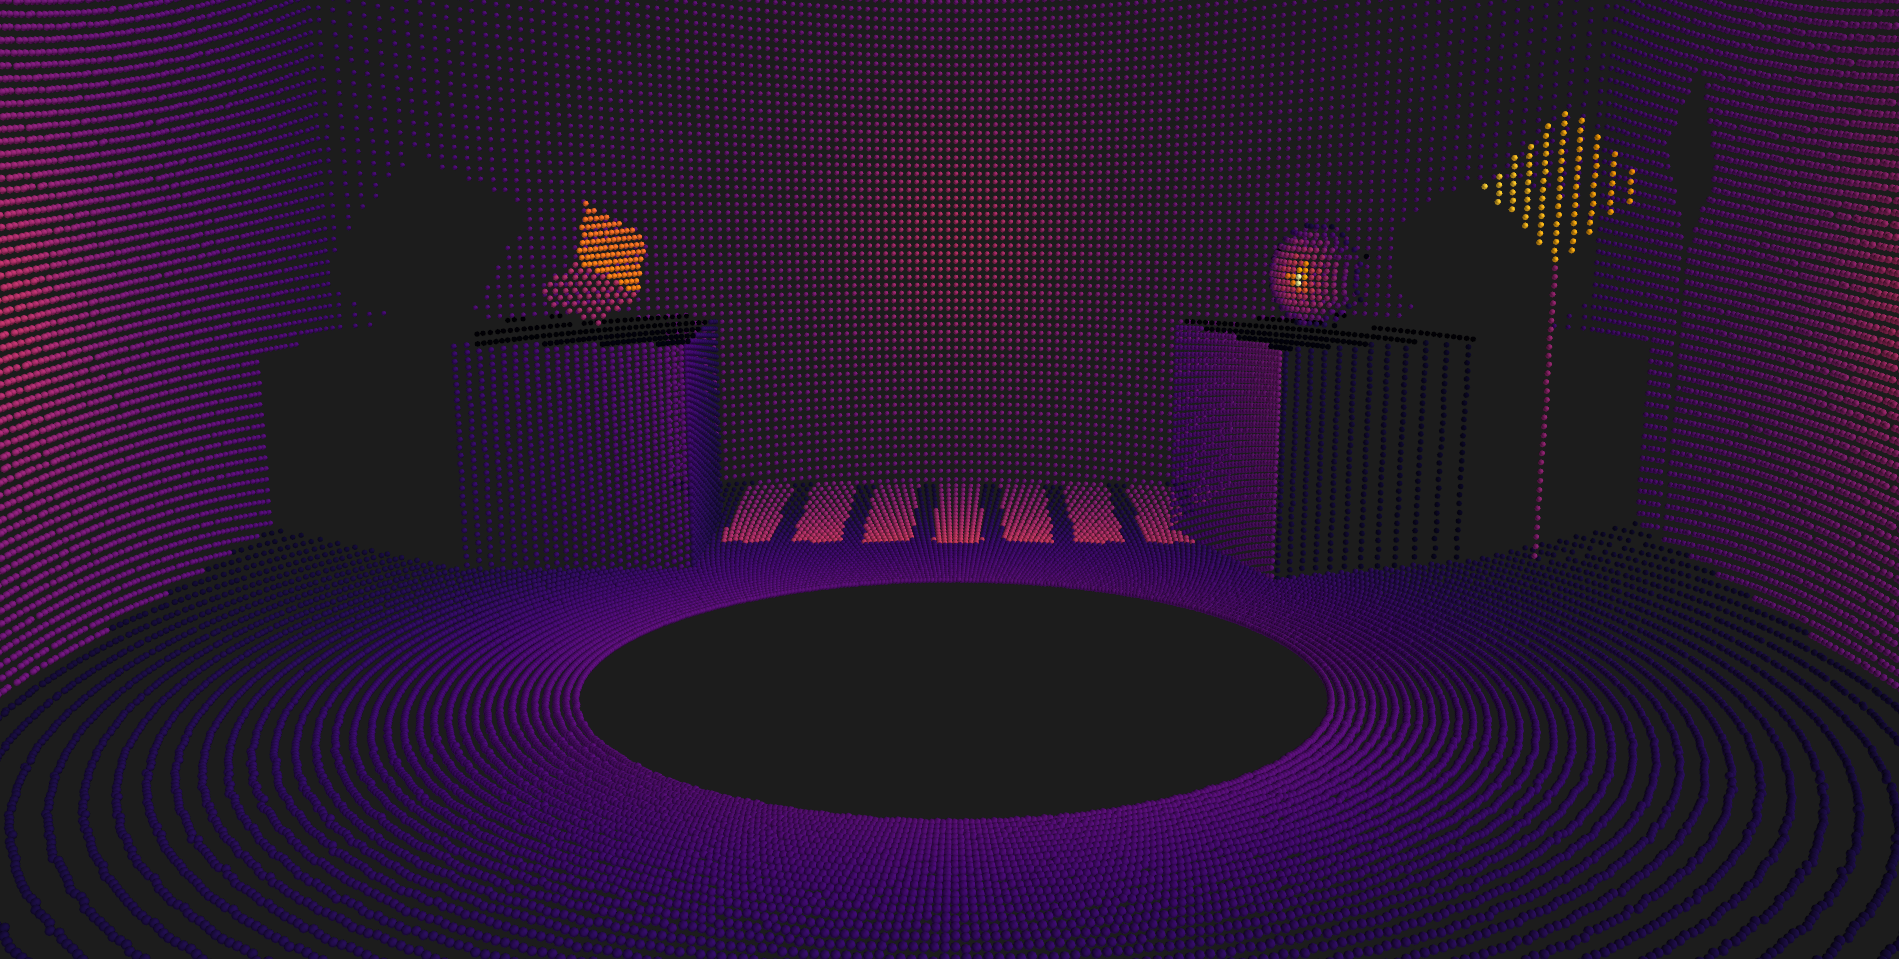
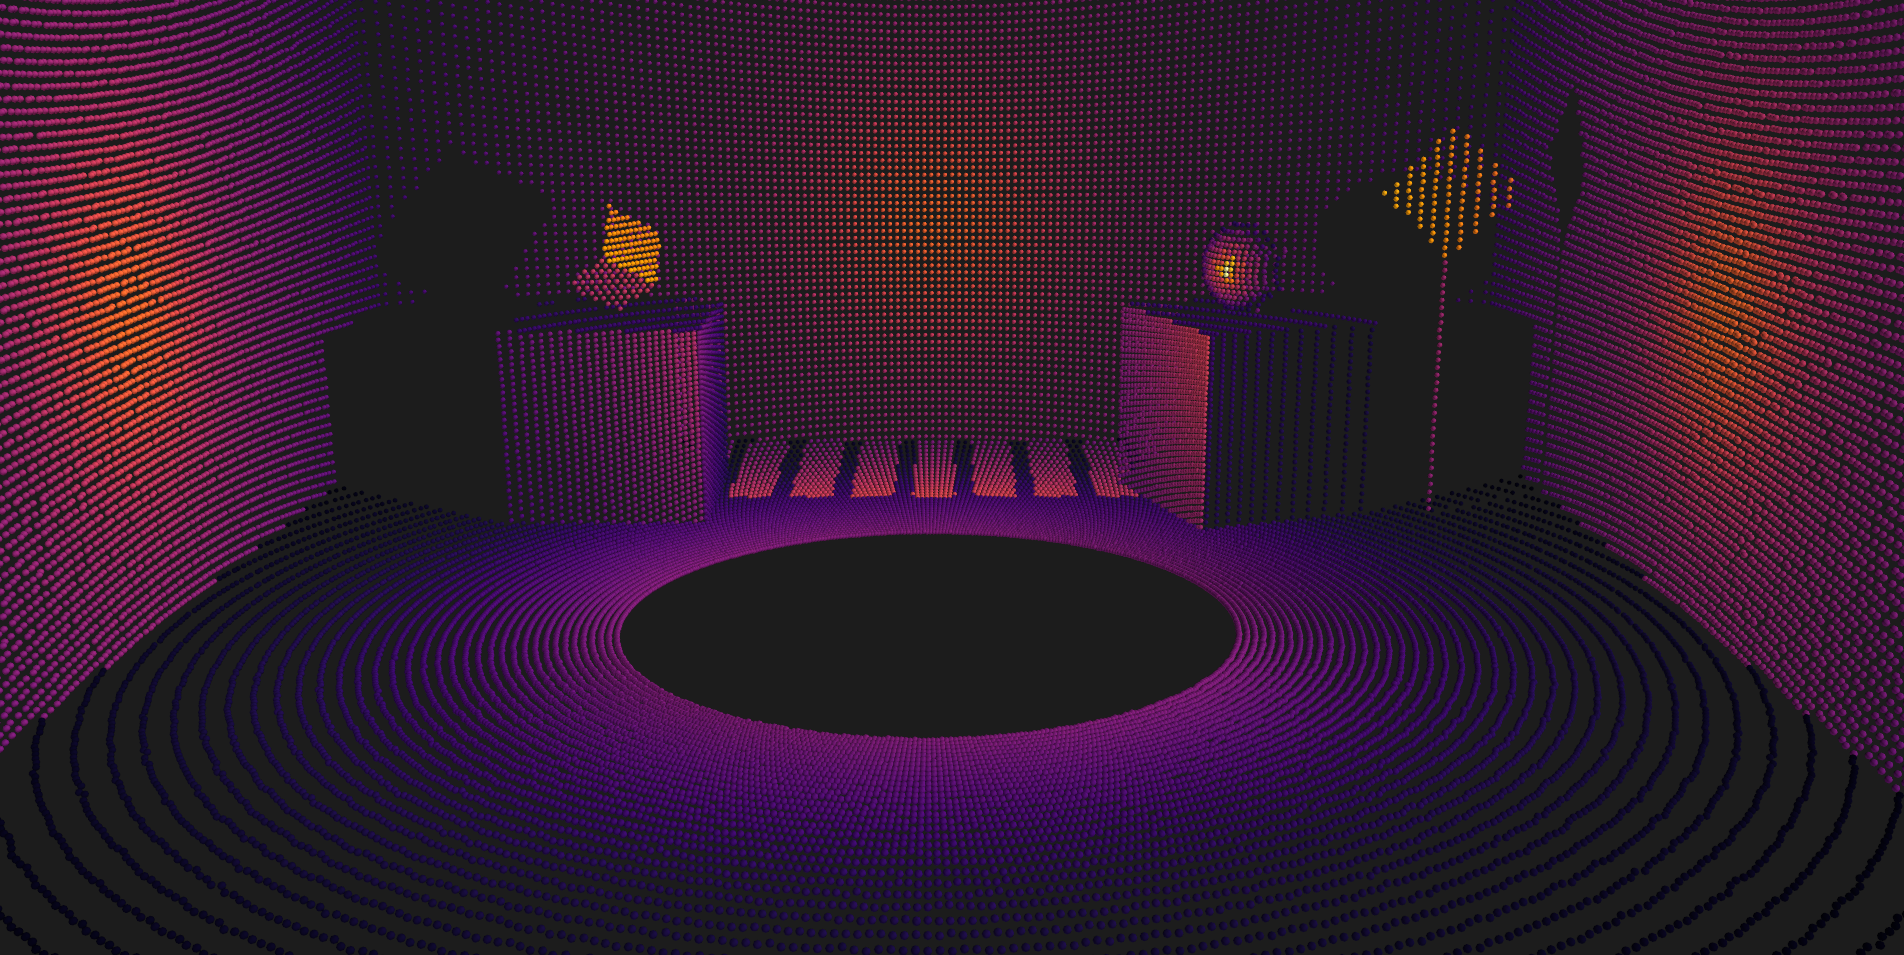
update readme

diff --git a/README.md b/README.md
@@ -2,21 +2,39 @@
 
 Sensor simulation plug-in for our 3D engine at [DCC-Lab/PyTissueOptics](https://github.com/DCC-Lab/PyTissueOptics).
 
-### LiDAR 
-```python
-from sensorsim import Sensor, scenes
-
-scene = scenes.PhantomScene()
-lidar = Sensor()
-
-lidar.capture(scene)
-
-lidar.display()
-```
-![](assets/lidar_noscene.png)
-
 Current simulation takes into account:
-- Diffuse and specular reflection (Blinn-Phong model).
+- Ambient, diffuse and specular reflection (Blinn-Phong model).
 - Signal noise and attenuation (basic model).
 - Light beam divergence (basic model).
 - Material reflectivity or retro reflectivity properties.
+
+Coming up:
+- A more complex RoadScene
+- Addition of RaDAR sensors
+- Improved sensor models
+
+
+## Example
+Using the default AV sensor suite composed of one 360 LiDAR and 2 cameras, and capturing the default phantom scene. 
+
+```python
+from sensorsim import AVSuite, scenes
+
+scene = scenes.PhantomScene()
+scene.display()
+
+sensors = AVSuite()
+sensors.capture(scene)
+sensors.display()
+```
+
+### LiDAR
+![](assets/lidar_noscene.png)
+
+### Camera
+![](assets/cameras.png)
+
+## Scenes
+Available scenes to scan. 
+### PhantomScene
+![](assets/phantomScene.png)
